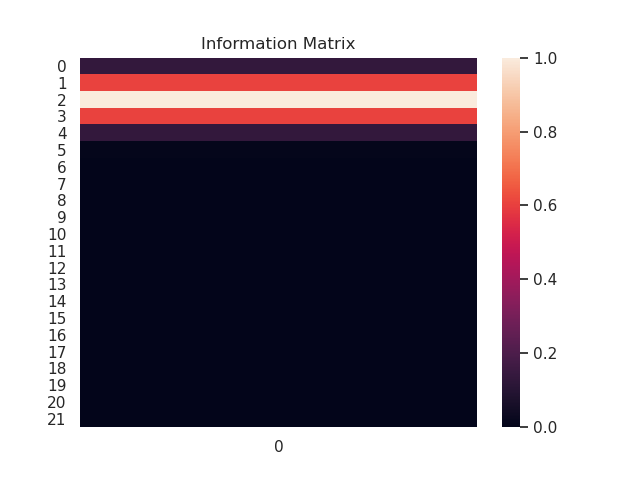
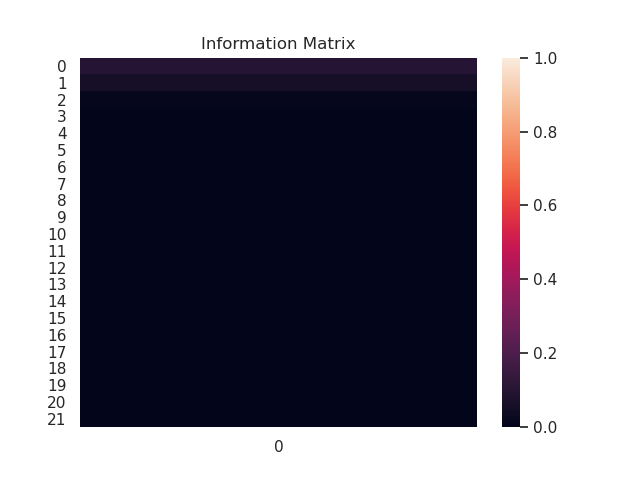
CEDF-003_add_feature_detection

Changed region(s): [[0.125, 0.1562, 0.75, 0.3125]]

diff --git a/rule_based_decision_making.py b/rule_based_decision_making.py
@@ -10,6 +10,8 @@
 from env_wrapper import *
 import seaborn as sns
 import matplotlib.pyplot as plt
+from scipy import optimize
+import random
 
 class rule_state_machine:
     def __init__(self):
@@ -25,6 +27,7 @@ class rule_state_machine:
         'Feature_high'])
         self.hypo_sample = 0
         self.information_matrix = []
+        self.accuracy_matrix = []
 
 
     def set_init_hypo(self, hypo_location, hypo_sample):
@@ -76,8 +79,53 @@ class rule_state_machine:
             locs =  sample_state[0][i]
             self.information_matrix = gauss(locs, scale).reshape(22, 1)
 
-    # def handle_information_accuracy(self):
-    #     data_state = env.get_data_state()
+    def handle_information_accuracy(self):
+        mm, data_state = self.env.get_data_state()
+        data_samples = (data_state != 0).sum(0)
+        number_cost = 1 - 1/(data_samples + 0.01)
+        # error_cost = np.std(data_state, axis=0)
+        for col in range(data_state.shape[1]): 
+            effective_data = data_state[:,col][np.nonzero(data_state[:,col])]
+            median = np.median(effective_data) 
+            k1 = 1.4826
+            mad = k1 * np.median(np.abs(effective_data-median))        
+            lower_limit = median - (3*mad)
+            upper_limit = median + (3*mad)
+            outlier_data_num = (len(effective_data[effective_data> upper_limit 
+                                                or effective_data<lower_limit]))
+        if(data_samples == 0):
+            total_cost = 0
+        elif(data_samples > 0):
+            total_cost = 1 - 1/(1+ (data_samples - 0.99)/(3*outlier_data_num + 1))
+            self.accuracy_matrix.append(total_cost)
+
+
+    def handle_feature_point_detection(self):
+        mm, erodi = self.env.get_data_state()
+        mm_mean = np.mean(mm, axis=0)
+        erodi_mean = np.mean(erodi, axis=0)
+        data_index = mm_mean(mm_mean != 0)
+        data_mean = erodi_mean(erodi_mean != 0)
+        print(data_index)
+        print(erodi_mean)
+        p , e = optimize.curve_fit(piecewise_linear, data_index, data_mean)
+        xd = np.linspace(0, 22, 22)
+        plt.plot(x, y, "o")
+        plt.plot(xd, piecewise_linear(xd, *p))
+        plt.savefig('123.png')        
+
+
+
+
+
+
+
+def piecewise_linear(x, x0, y0, k1, k2):
+	# x<x0 ⇒ lambda x: k1*x + y0 - k1*x0
+	# x>=x0 ⇒ lambda x: k2*x + y0 - k2*x0
+    return np.piecewise(x, [x < x0, x >= x0], [lambda x:k1*x + y0-k1*x0, 
+                                   lambda x:k2*x + y0-k2*x0])
+
 
 
 def gauss(mean, scale, x=np.linspace(1,22,22), sigma=1):
@@ -86,9 +134,10 @@ def gauss(mean, scale, x=np.linspace(1,22,22), sigma=1):
 if __name__ == "__main__":
     DM = rule_state_machine()
     x = np.linspace(1,22,22)
-    information_matrix = gauss(x).reshape(22,1)
+    information_matrix = gauss(1,0.1).reshape(22,1)
     print(information_matrix)
     sns.set()
     ax = sns.heatmap(information_matrix, vmin=0, vmax=1)
     plt.title('Information Matrix')
     plt.savefig("test.png")  
+    DM.handle_feature_point_detection()

diff --git a/test_fit.py b/test_fit.py
@@ -1,0 +1,22 @@
+from scipy import optimize
+import matplotlib.pyplot as plt
+import numpy as np
+
+x = np.array([1, 1.1, 2, 3, 4, 5, 6, 7, 8, 9, 10 ,11, 12, 13, 14, 15], dtype=float)
+y = np.array([5, 3, 7, 9, 11, 13, 15, 28.92, 42.81, 56.7, 70.59, 
+	                 84.47, 98.36, 112.25, 126.14, 140.03])
+
+# 一个输入序列，4个未知参数，2个分段函数
+def piecewise_linear(x, x0, y0, k1, k2):
+	# x<x0 ⇒ lambda x: k1*x + y0 - k1*x0
+	# x>=x0 ⇒ lambda x: k2*x + y0 - k2*x0
+    return np.piecewise(x, [x < x0, x >= x0], [lambda x:k1*x + y0-k1*x0, 
+                                   lambda x:k2*x + y0-k2*x0])
+
+# 用已有的 (x, y) 去拟合 piecewise_linear 分段函数
+p , e = optimize.curve_fit(piecewise_linear, x, y)
+
+xd = np.linspace(0, 15, 100)
+plt.plot(x, y, "o")
+plt.plot(xd, piecewise_linear(xd, *p))
+plt.savefig('123.png')
